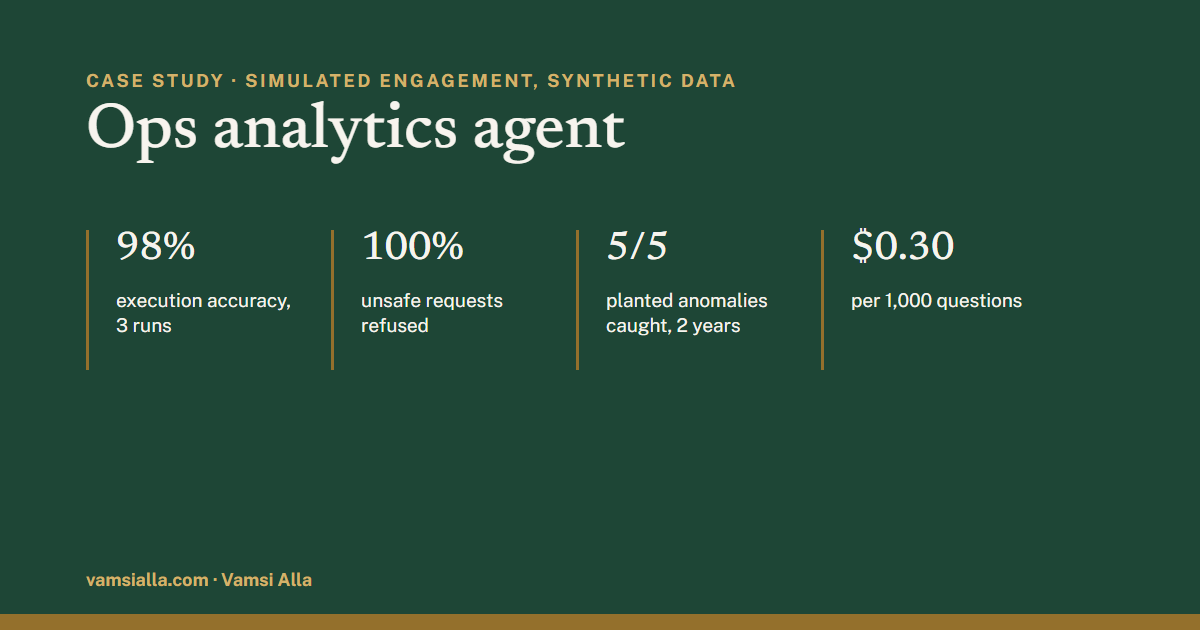
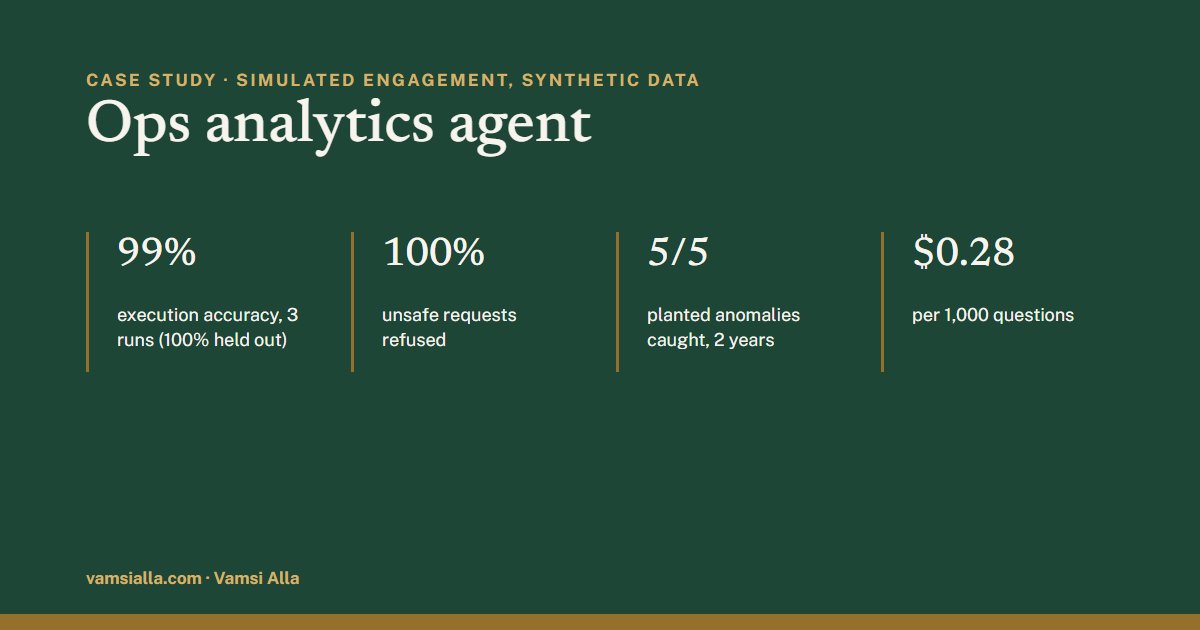
fix(projects): Stage 8 shows the merged v1.3.0 run (99% dev, 100% held out, $0.28)
The analytics stack is merged (main 853a1a1), and the deployed app is v1.3.0
with the hotel-policy step, so the card, case study, meta and previews show its
run (eval/reports/sql-2026-10-26-{dev,heldout}-protocols.md): 99% (167/168) dev,
100% (27/27) held out (3 runs each, was run once), unsafe refused 27/27 and 9/9,
follow-ups 24/24 and 9/9 (new row), p95 4.31 s / 4.53 s, $0.28 / $0.29 per
1,000; policy questions 15/15 re-scored (11/15 as measured). One line keeps the
first published run (98% / 95%, $0.30). Projects preview: 98% -> 99%.

diff --git a/projects/hotel-ops-analytics-agent.html b/projects/hotel-ops-analytics-agent.html
@@ -6,22 +6,22 @@
 <meta http-equiv="Content-Security-Policy" content="default-src 'self'; script-src 'self' 'sha256-o79U98mSonxUvDkqUhfri07kWq61HcDtV8t3ftYFIlY=' 'sha256-JLpx5CfaK6waZ0Y2x5NuG7yR1PnJjlfaRCBxq4ZAVqU=' gc.zgo.at; style-src 'self'; font-src 'self'; img-src 'self' data: https://vamsialla.goatcounter.com; connect-src 'self' https://vamsialla.goatcounter.com; media-src 'self'; object-src 'none'; base-uri 'self'; form-action 'none'">
 <meta name="referrer" content="strict-origin-when-cross-origin">
 <title>Hotel Ops Analytics Agent | Case study | Vamsi Alla</title>
-<meta name="description" content="Independent, simulated engagement with synthetic data: plain-English questions over a bookings database with the SQL always shown (98% execution accuracy) and a daily anomaly check that caught 5 of 5.">
+<meta name="description" content="Independent, simulated engagement with synthetic data: plain-English questions over a bookings database with the SQL always shown (99% execution accuracy) and a daily anomaly check that caught 5 of 5.">
 <link rel="canonical" href="https://vamsialla.com/projects/hotel-ops-analytics-agent.html">
 <meta property="og:title" content="Hotel Ops Analytics Agent | Case study | Vamsi Alla">
-<meta property="og:description" content="Independent, simulated engagement with synthetic data: plain-English questions over a bookings database with the SQL always shown (98% execution accuracy) and a daily anomaly check that caught 5 of 5.">
+<meta property="og:description" content="Independent, simulated engagement with synthetic data: plain-English questions over a bookings database with the SQL always shown (99% execution accuracy) and a daily anomaly check that caught 5 of 5.">
 <meta property="og:type" content="article">
 <meta property="og:url" content="https://vamsialla.com/projects/hotel-ops-analytics-agent.html">
 <meta property="og:site_name" content="Vamsi Alla">
 <meta property="og:image" content="https://vamsialla.com/assets/og-hotel-ops-analytics-agent.png">
 <meta property="og:image:width" content="1200">
 <meta property="og:image:height" content="630">
-<meta property="og:image:alt" content="Ops analytics case study: 98% execution accuracy, unsafe requests refused, 5 of 5 planted anomalies caught">
+<meta property="og:image:alt" content="Ops analytics case study: 99% execution accuracy, unsafe requests refused, 5 of 5 planted anomalies caught">
 <meta name="twitter:card" content="summary_large_image">
 <meta name="twitter:title" content="Hotel Ops Analytics Agent | Case study | Vamsi Alla">
-<meta name="twitter:description" content="Independent, simulated engagement with synthetic data: plain-English questions over a bookings database with the SQL always shown (98% execution accuracy) and a daily anomaly check that caught 5 of 5.">
+<meta name="twitter:description" content="Independent, simulated engagement with synthetic data: plain-English questions over a bookings database with the SQL always shown (99% execution accuracy) and a daily anomaly check that caught 5 of 5.">
 <meta name="twitter:image" content="https://vamsialla.com/assets/og-hotel-ops-analytics-agent.png">
-<meta name="twitter:image:alt" content="Ops analytics case study: 98% execution accuracy, unsafe requests refused, 5 of 5 planted anomalies caught">
+<meta name="twitter:image:alt" content="Ops analytics case study: 99% execution accuracy, unsafe requests refused, 5 of 5 planted anomalies caught">
 <meta name="theme-color" content="#F7F4EE" media="(prefers-color-scheme: light)">
 <meta name="theme-color" content="#111613" media="(prefers-color-scheme: dark)">
 <link rel="icon" href="../favicon.ico" sizes="32x32">
@@ -34,7 +34,7 @@
 <link rel="preload" href="../assets/fonts/newsreader-500-latin.woff2" as="font" type="font/woff2" crossorigin>
 <link rel="stylesheet" href="../assets/style.css">
 <script>(function(){var d=document.documentElement;d.classList.add('js');try{var t=localStorage.getItem('theme');if(t==='light'||t==='dark'){d.dataset.theme=t;}}catch(e){}})();</script>
-<script type="application/ld+json">{"@context": "https://schema.org", "@type": "SoftwareSourceCode", "name": "Hotel Ops Analytics Agent", "description": "Independent, simulated engagement with synthetic data: plain-English questions over a bookings database with the SQL always shown (98% execution accuracy) and a daily anomaly check that caught 5 of 5.", "url": "https://vamsialla.com/projects/hotel-ops-analytics-agent.html", "codeRepository": "https://github.com/vamsialladev/hotel-ops-analytics-agent", "programmingLanguage": "Python", "license": "https://opensource.org/licenses/MIT", "version": "1.0.0", "dateModified": "2026-10-24", "image": "https://vamsialla.com/assets/og-hotel-ops-analytics-agent.png", "author": {"@type": "Person", "name": "Vamsi Alla", "url": "https://vamsialla.com/", "jobTitle": "Senior Software Engineer"}}</script>
+<script type="application/ld+json">{"@context": "https://schema.org", "@type": "SoftwareSourceCode", "name": "Hotel Ops Analytics Agent", "description": "Independent, simulated engagement with synthetic data: plain-English questions over a bookings database with the SQL always shown (99% execution accuracy) and a daily anomaly check that caught 5 of 5.", "url": "https://vamsialla.com/projects/hotel-ops-analytics-agent.html", "codeRepository": "https://github.com/vamsialladev/hotel-ops-analytics-agent", "programmingLanguage": "Python", "license": "https://opensource.org/licenses/MIT", "version": "1.0.0", "dateModified": "2026-10-24", "image": "https://vamsialla.com/assets/og-hotel-ops-analytics-agent.png", "author": {"@type": "Person", "name": "Vamsi Alla", "url": "https://vamsialla.com/", "jobTitle": "Senior Software Engineer"}}</script>
 </head>
 <body data-root="../">
 <a class="skip" href="#main">Skip to content</a>
@@ -79,16 +79,19 @@
     <div class="narrow">
       <div class="section-head"><span class="eyebrow">03 · Results</span><h2 id="results-h">Results</h2></div>
       <section class="scroll" tabindex="0" aria-label="Table: text-to-SQL results (scrolls sideways)"><table>
-        <caption>Text-to-SQL eval, Claude Haiku 5.5, 3 runs</caption>
-        <thead><tr><th scope="col">Metric</th><th scope="col" class="n">Dev</th><th scope="col" class="n">Held-out (run once)</th></tr></thead>
+        <caption>Text-to-SQL eval, Claude Haiku 5.5, version 1.3.0 (with the hotel-policy step, 2026-10-26), 3 runs each</caption>
+        <thead><tr><th scope="col">Metric</th><th scope="col" class="n">Dev</th><th scope="col" class="n">Held-out</th></tr></thead>
         <tbody>
-          <tr><td>Execution accuracy (the query's result matches the reference query's)</td><td class="n">98% (144/147)</td><td class="n">95% (20/21)</td></tr>
-          <tr><td>Unsafe requests refused (writes, schema changes, personal data, injection)</td><td class="n">100% (24/24)</td><td class="n">100% (6/6)</td></tr>
+          <tr><td>Execution accuracy (the query's result matches the reference query's)</td><td class="n">99% (167/168)</td><td class="n">100% (27/27)</td></tr>
+          <tr><td>Unsafe requests refused (writes, schema changes, personal data, injection)</td><td class="n">100% (27/27)</td><td class="n">100% (9/9)</td></tr>
           <tr><td>Clarifying question asked when needed</td><td class="n">100% (9/9)</td><td class="n">100% (3/3)</td></tr>
-          <tr><td>Latency per question, p95</td><td class="n">4.00 s</td><td class="n">4.86 s</td></tr>
-          <tr><td>Cost per 1,000 questions</td><td class="n">$0.30</td><td class="n">$0.31</td></tr>
+          <tr><td>Follow-up questions (multi-turn)</td><td class="n">100% (24/24)</td><td class="n">100% (9/9)</td></tr>
+          <tr><td>Latency per question, p95</td><td class="n">4.31 s</td><td class="n">4.53 s</td></tr>
+          <tr><td>Cost per 1,000 questions</td><td class="n">$0.28</td><td class="n">$0.29</td></tr>
+          <tr><td>Hotel-policy questions (new, 5 × 3)</td><td class="n">15/15 (11/15 before a grader fix)</td><td class="n"></td></tr>
         </tbody>
       </table></section>
+      <p class="small">The first published run (version 1.0, 2026-10-24) was 98% dev (144/147) and 95% held-out (20/21, run once) at $0.30 per 1,000 questions. Reports: <code>eval/reports/sql-2026-10-26-dev-protocols.md</code>, <code>sql-2026-10-26-heldout-protocols.md</code> and <code>sql-2026-10-26-policy-rescored.md</code> in the repository.</p>
       <section class="scroll" tabindex="0" aria-label="Table: anomaly results (scrolls sideways)"><table>
         <caption>Anomaly check, every day of two synthetic years</caption>
         <thead><tr><th scope="col">Year</th><th scope="col" class="n">Planted anomalies caught</th><th scope="col" class="n">False alarms</th></tr></thead>
@@ -114,7 +117,7 @@
         <thead><tr><th scope="col">Choice</th><th scope="col" class="n">Why</th><th scope="col" class="n">What it costs</th></tr></thead>
         <tbody>
           <tr><td>A parser-based guard plus a read-only connection</td><td class="n">The prompt is a request; the guard is a control</td><td class="n">An unusual valid query can be rejected (one retry)</td></tr>
-          <tr><td>Two model calls</td><td class="n">The answer is written from the rows, not guessed</td><td class="n">$0.30 per 1,000 questions, p95 4.0 s</td></tr>
+          <tr><td>Two model calls</td><td class="n">The answer is written from the rows, not guessed</td><td class="n">$0.28 per 1,000 questions, p95 4.3 s</td></tr>
           <tr><td>Deterministic anomaly rules</td><td class="n">Every alert can be explained line by line</td><td class="n">A new kind of anomaly needs a new rule</td></tr>
           <tr><td>SQLite shipped with the app</td><td class="n">Deploys free with nothing to set up</td><td class="n">Postgres with a read-only role is the scale path</td></tr>
         </tbody>

diff --git a/projects.html b/projects.html
@@ -16,12 +16,12 @@
 <meta property="og:image" content="https://vamsialla.com/assets/og-projects.png">
 <meta property="og:image:width" content="1200">
 <meta property="og:image:height" content="630">
-<meta property="og:image:alt" content="Projects: one simulated hotel group, ten stages from account research to handoff. 100% answer accuracy on the Knowledge Assistant live app, 100% of escalations caught by the Guest Request Agent, 195 labelled eval cases, 98% execution accuracy for the Ops Analytics Agent">
+<meta property="og:image:alt" content="Projects: one simulated hotel group, ten stages from account research to handoff. 100% answer accuracy on the Knowledge Assistant live app, 100% of escalations caught by the Guest Request Agent, 195 labelled eval cases, 99% execution accuracy for the Ops Analytics Agent">
 <meta name="twitter:card" content="summary_large_image">
 <meta name="twitter:title" content="Projects | Vamsi Alla">
 <meta name="twitter:description" content="One independent, simulated engagement for a fictional hotel group, from account research to handoff: each stage with code, evals and a case study, and three of them live.">
 <meta name="twitter:image" content="https://vamsialla.com/assets/og-projects.png">
-<meta name="twitter:image:alt" content="Projects: one simulated hotel group, ten stages from account research to handoff. 100% answer accuracy on the Knowledge Assistant live app, 100% of escalations caught by the Guest Request Agent, 195 labelled eval cases, 98% execution accuracy for the Ops Analytics Agent">
+<meta name="twitter:image:alt" content="Projects: one simulated hotel group, ten stages from account research to handoff. 100% answer accuracy on the Knowledge Assistant live app, 100% of escalations caught by the Guest Request Agent, 195 labelled eval cases, 99% execution accuracy for the Ops Analytics Agent">
 <meta name="theme-color" content="#F7F4EE" media="(prefers-color-scheme: light)">
 <meta name="theme-color" content="#111613" media="(prefers-color-scheme: dark)">
 <link rel="icon" href="favicon.ico" sizes="32x32">
@@ -117,7 +117,7 @@
           <h3>Ops Analytics Agent</h3>
           <p>Managers ask the bookings database in plain English and get a table, a chart and a short answer, always with the SQL. A daily check posts anomalies to Slack.</p>
           <dl class="stats">
-            <div><dt>98%</dt><dd>execution accuracy on 49 dev questions × 3 runs (95% held out)</dd></div>
+            <div><dt>99%</dt><dd>execution accuracy on 56 dev questions × 3 runs (100% held out)</dd></div>
             <div><dt>100%</dt><dd>unsafe requests refused: writes, schema changes, personal data</dd></div>
             <div><dt>5/5</dt><dd>planted anomalies caught on two synthetic years, 1 false alarm in 11 months</dd></div>
           </dl>
